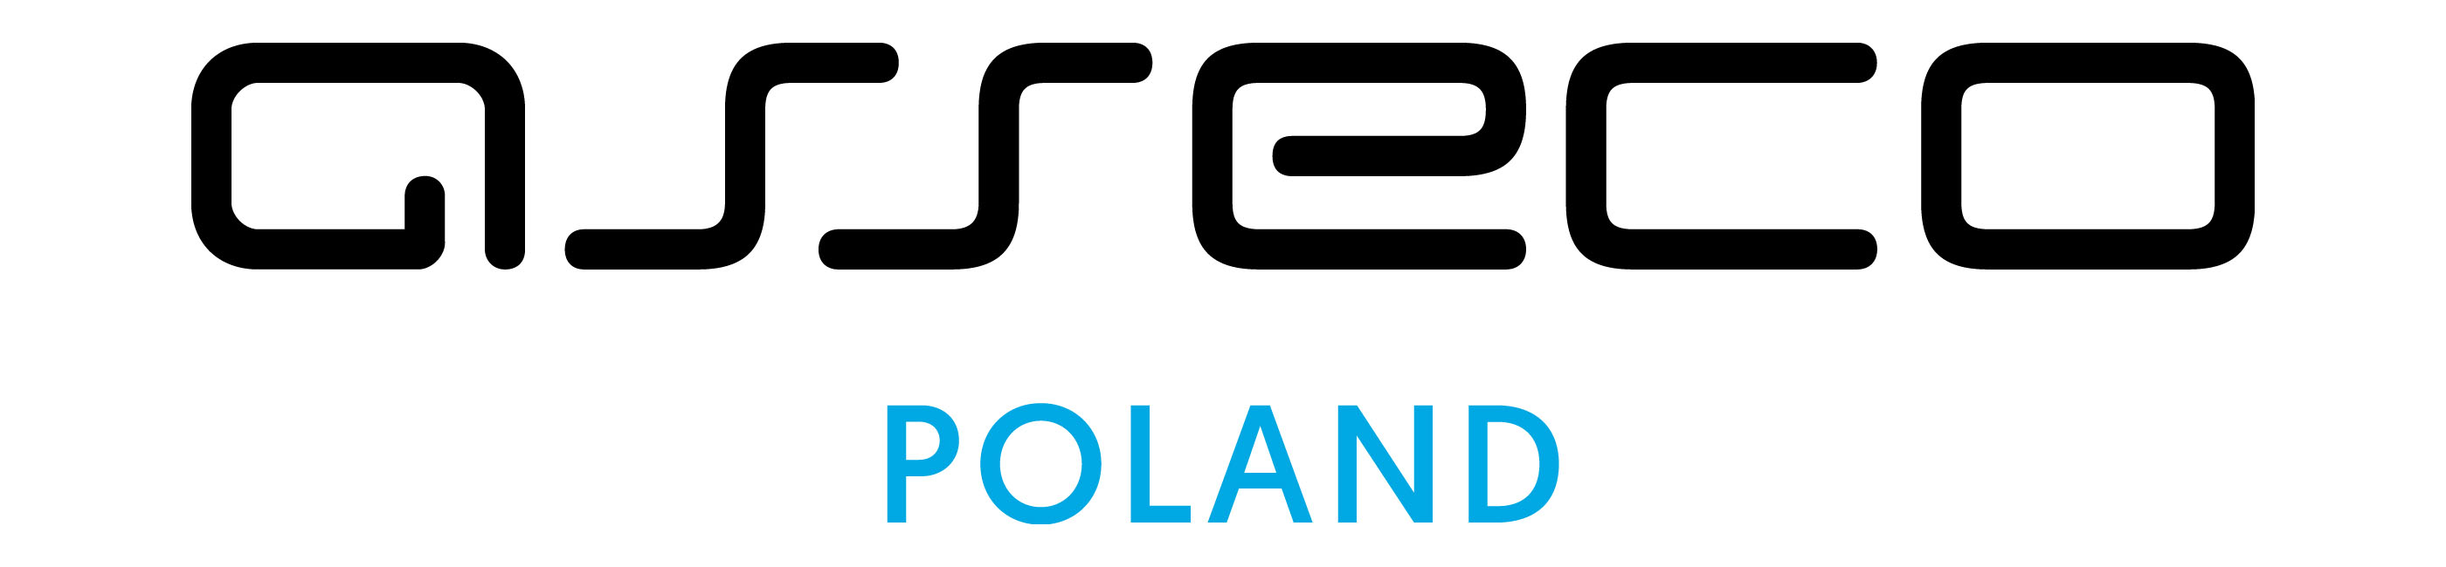
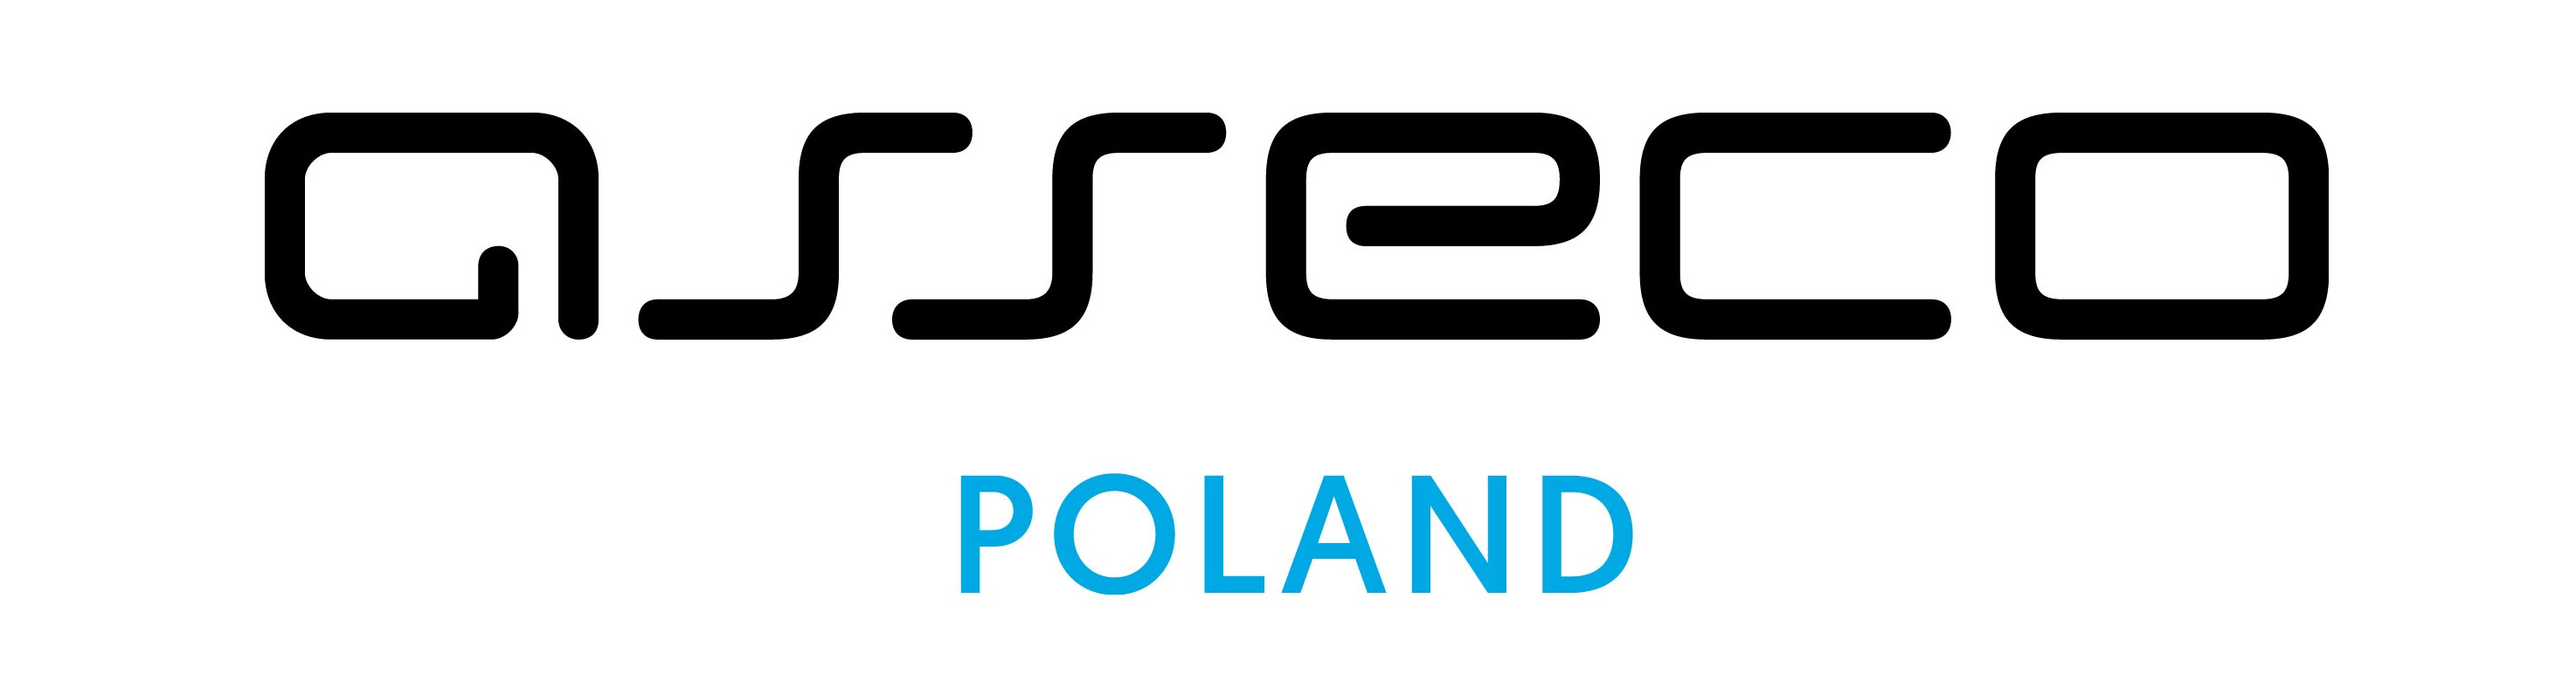
updates in sponsors

Changed region(s): [[0.0621, 0.0615, 0.9321, 0.4923], [0.3418, 0.6769, 0.6525, 0.9231]]

diff --git a/src/components/Partners.js b/src/components/Partners.js
@@ -16,6 +16,8 @@ class Partners extends Component {
             <ContentDiv className="partners">
                 <Grid>
                   <h2>Sponsor Główny</h2>
+
+                    {/*
                   {MainSponsorData.map((sponsor) =>
                     <Sponsor
                       title={sponsor.title}
@@ -29,8 +31,32 @@ class Partners extends Component {
                       description1={sponsor.description1}
                       description2={sponsor.description2}
                     />)}
+*/}
+
+                    <Row className="Sponsor">
+                        <Col xs={12} sm={4} className="Simg">
+                            <div className="Ass_img">
+                                <a href="https://pl.asseco.com/kariera"><Image src={require('../img/partners/asseco.JPG')} /></a>
+                            </div>
+                        </Col>
+                        <Col xs={12} sm={8} className="Sdescription">
+                            <h3>Asseco Poland</h3>
+                            <p>
+                                Jesteśmy największą polską firmą informatyczną, która od ponad 25 lat tworzy zaawansowane technologicznie oprogramowanie dla firm z kluczowych sektorów gospodarki. Zatrudniamy blisko 2500 specjalistów w kilkunastu miastach w Polsce.
+                            </p>
+                            <p>
+                                Stoimy na czele międzynarodowej grupy kapitałowej Asseco. Jesteśmy największym dostawcą nowoczesnych rozwiązań informatycznych w Europie Środkowo-Wschodniej. Ponadto w rankingu Truffle 100, zajęliśmy szóste miejsce wśród największych producentów oprogramowania w Europie.
+                            </p>
+                            <i className="fa fa-globe" aria-hidden="true"></i> <a href="https://pl.asseco.com/kariera" className="partnerLink">pl.asseco.com/kariera</a><br/>
+                            <i className="fab fa-facebook-square fa-lg"></i> <a href="https://www.facebook.com/AssecoPolandKariera" className="partnerLink">/AssecoPolandKariera</a><br/>
+                            <i className="fa fa-users fa-lg"></i> <a href="https://praca.asseco.com" className="partnerLink">praca.asseco.com</a><br/><br/>
+
+                        </Col>
+
+                    </Row>
 
                     <h2>Sponsorzy</h2>
+
                     {/*
                   {SponsorsData.map((sponsor) =>
                       <Sponsor
@@ -45,16 +71,23 @@ class Partners extends Component {
                       />
                   )}
                   */}
+
+
                     <Row className="Sponsor">
+                        <Col xs={12} sm={4} className="Simg">
+                            <div className="Q_img">
+                                <a href="https://www.qualtrics.com/careers/"><Image src={require('../img/partners/q.jpg')} /></a>
+                            </div>
+                        </Col>
                         <Col xs={12} sm={8} className="Sdescription">
                             <h3>Qualtrics</h3>
                             <p>
                                 Jesteśmy dynamicznie rozwijającą się firmą typu "SaaS", założoną szesnaście lat temu w
                                 Utah w USA. Bazując na danych płynących do nas od ponad miliona użytkowników
                                 wykorzystaliśmy 15 lat rozwoju naszych produktów, aby uruchomić Qualtrics Experience
-                                Management (XM) Platform TM - pierwszą na świecie i jedyną zintegrowaną platformę do
+                                Management (XM) Platform &trade; - pierwszą na świecie i jedyną zintegrowaną platformę do
                                 pomiaru i optymalizacji doświadczeń klientów, pracowników, marek i produktów oraz
-                                Qualtrics iQ TM - kolekcji inteligentnych funkcji opartych na sztucznej inteligencji i uczeniu
+                                Qualtrics iQ &trade; - kolekcji inteligentnych funkcji opartych na sztucznej inteligencji i uczeniu
                                 maszynowym.
                             </p>
                             <p>
@@ -67,12 +100,9 @@ class Partners extends Component {
                             <i className="fab fa-instagram fa-lg"></i> <a href="https://www.instagram.com/qualtrics" className="partnerLink">/qualtrics</a><br/><br/>
 
                         </Col>
-                        <Col xs={12} sm={4} className="Simg">
-                            <div className="Q_img">
-                                <a href="https://www.qualtrics.com/careers/"><Image src={require('../img/partners/q.jpg')} /></a>
-                            </div>
-                        </Col>
+
                     </Row>
+
 
 
                     <h2>Patroni honorowi</h2>

diff --git a/src/CustomComponents/Sponsor.js b/src/CustomComponents/Sponsor.js
@@ -33,7 +33,7 @@ export default class Sponsor extends React.Component {
           <h3>{this.props.title}</h3>
           <p>{this.props.description1}</p>
           <p>{this.props.description2}</p>
-            <i className="fab fa-facebook-square fa-lg"></i> <a href={this.props.linkFB} className="partnerLink">{this.props.linkFB.substring(8)}</a><br/>
+            <i className="fab fa-facebook-square fa-lg"></i> <a href={this.props.linkFB} className="partnerLink">{this.props.linkFB.substring(24)}</a><br/>
           <i className="fa fa-globe fa-lg" aria-hidden="true"></i> <a href={this.props.link} className="partnerLink">{this.props.link.substring(8)}</a><br/>
           <i className="fa fa-users fa-lg" aria-hidden="true"></i> <a href={this.props.linkJob} className="partnerLink">{this.props.linkJob.substring(8)}</a>
         </Col>

diff --git a/src/components/Partners.css b/src/components/Partners.css
@@ -20,13 +20,9 @@
     padding: 20px;
 }
 
-.SGimg img{
-    background-color: white;
-
-}
 
 .SG {
-    margin-bottom: 40px;
+    margin-bottom: 400px;
 }
 
 .Sponsor {
@@ -65,6 +61,24 @@
 }
 
 .Q_img img {
-    width: 60%;
+    width: 65%;
+    margin-top: 0px;
 }
+.Ass_img img{
+    width: 100%;
+    margin-top: 0;
+}
+
+@media  screen and (min-width: 768px) {
+    .Q_img img {
+        margin-top: 15%;
+    }
+
+    .Ass_img img{
+        margin-top: 25%;
+
+    }
+}
+
+
 

diff --git a/src/CustomComponents/Sponsor.css b/src/CustomComponents/Sponsor.css
@@ -2,9 +2,10 @@
     display: block;
     margin-left: auto;
     margin-right: auto;
-    position: absolute;               /* 2 */
+    position: center;               /* 2 */
     top: 50%;                         /* 3 */
     transform: translate(0, -50%);
+    margin-top: 0% ;
 }
 .row-eq-height {
     display: -webkit-box;
